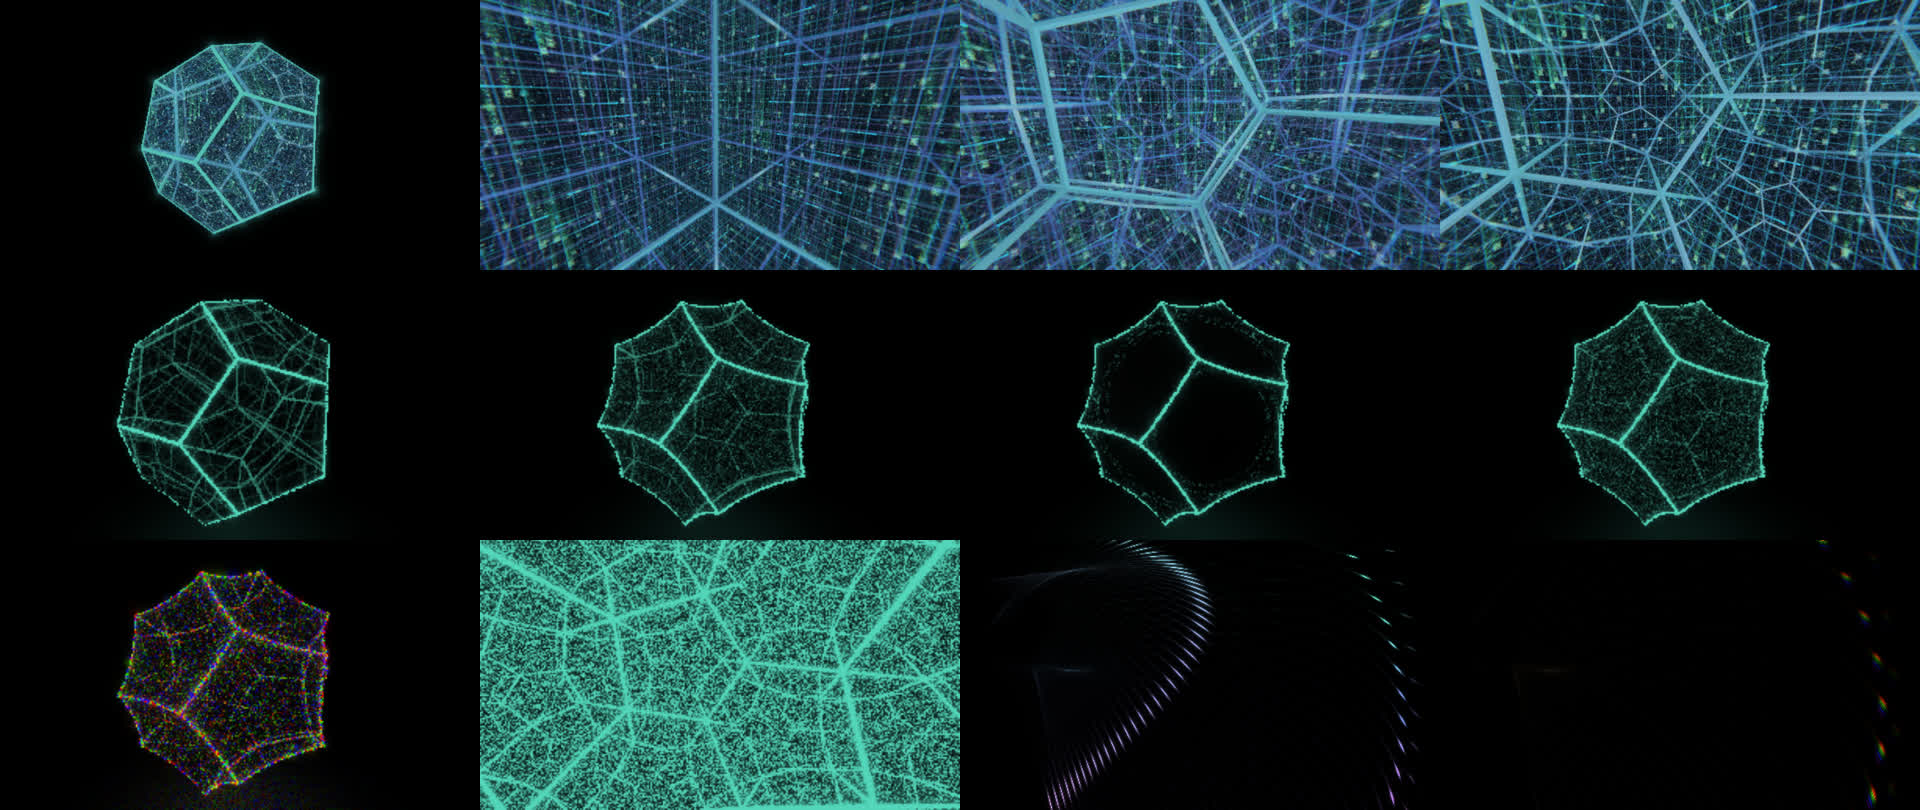
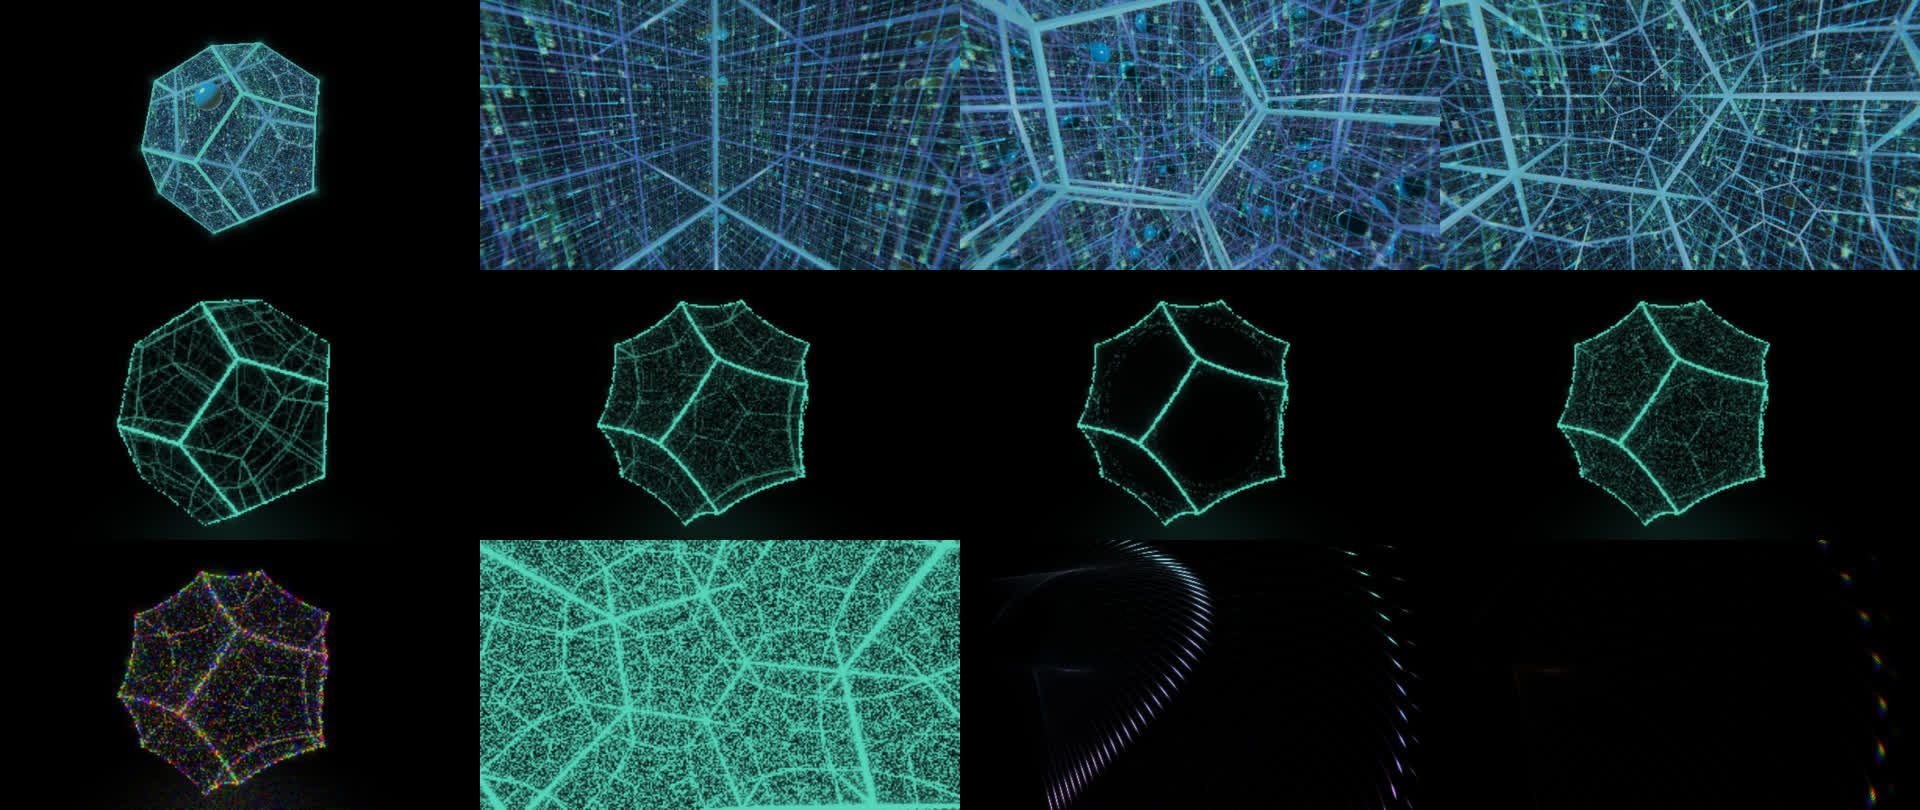
Add elastic 3D and hyperbolic chamber ball with traced reflections

diff --git a/demos/infinity/BouncingBall.hpp b/demos/infinity/BouncingBall.hpp
@@ -1,0 +1,140 @@
+#pragma once
+#include "Dodecahedron.hpp"
+#include "OpticalMath.hpp"
+#include <array>
+#include <cmath>
+#include <algorithm>
+namespace infinity_ball {
+using V = std::array<double, 4>;
+inline double dot(const V& a, const V& b) {
+  return a[0] * b[0] + a[1] * b[1] + a[2] * b[2] - a[3] * b[3];
+}
+struct Ball {
+  V p = {.12, -.08, .06, 0}, v = {.57, .43, .69, 0};
+  bool hyper = false, cube = false;
+  int impacts = 0;
+  double flash = 0;
+  static constexpr double radius = .14;
+  Ball(bool h = false, bool c = false) : hyper(h), cube(c) {
+    if (hyper) {
+      p[3] = std::sqrt(1 + p[0] * p[0] + p[1] * p[1] + p[2] * p[2]);
+      v[3] = (p[0] * v[0] + p[1] * v[1] + p[2] * v[2]) / p[3];
+    }
+    const double length = std::sqrt(dot(v, v));
+    for (auto& x : v) x /= length;
+  }
+  V normal(int face) const {
+    if (cube) {
+      V n = {0, 0, 0, 0};
+      n[face / 2] = (face % 2) ? -1 : 1;
+      return n;
+    }
+    const float* f = infinity_geometry::faces + 3 * face;
+    if (!hyper) {
+      V n = {f[0], f[1], f[2], 0};
+      const double length = std::sqrt(dot(n, n));
+      for (auto& x : n) x /= length;
+      return n;
+    }
+    auto n = infinity_math::hyperplane(f[0], f[1], f[2], infinity_geometry::kleinT);
+    // Normalize again in double precision for the integration invariants.
+    V result = {n[0], n[1], n[2], n[3]};
+    double scale = std::sqrt(dot(result, result));
+    for (auto& x : result) x /= scale;
+    return result;
+  }
+  void travel(double distance) {
+    if (!hyper) {
+      for (int k = 0; k < 3; ++k) p[k] += v[k] * distance;
+      return;
+    }
+    const double ch = std::cosh(distance), sh = std::sinh(distance);
+    V q = p;
+    for (int k = 0; k < 4; ++k) {
+      p[k] = ch * q[k] + sh * v[k];
+      v[k] = sh * q[k] + ch * v[k];
+    }
+  }
+  void step(double distance) {
+    flash *= std::exp(-distance * 16);
+    for (int event = 0; distance > 1e-10 && event < 12; ++event) {
+      double first = distance;
+      int hit = -1;
+      for (int f = 0; f < (cube ? 6 : 12); ++f) {
+        auto n = normal(f);
+        const double a = dot(p, n), b = dot(v, n);
+        if (!hyper) {
+          if (b > 1e-10) {
+            double t = (1 - radius - a) / b;
+            if (t >= -1e-9 && t <= first) {
+              first = std::max(0.0, t);
+              hit = f;
+            }
+          }
+        } else {
+          const double wall = -std::sinh(radius);
+          if (a * std::cosh(first) + b * std::sinh(first) > wall && b > 0) {
+            double lo = 0, hi = first;
+            for (int j = 0; j < 40; ++j) {
+              double mid = (lo + hi) * .5;
+              if (a * std::cosh(mid) + b * std::sinh(mid) > wall)
+                hi = mid;
+              else
+                lo = mid;
+            }
+            first = (lo + hi) * .5;
+            hit = f;
+          }
+        }
+      }
+      travel(first);
+      distance -= first;
+      if (hit < 0) break;
+      V n = normal(hit);
+      if (hyper) {
+        double a = dot(p, n);
+        for (int k = 0; k < 4; ++k) n[k] += a * p[k];
+        const double norm = std::sqrt(dot(n, n));
+        for (auto& x : n) x /= norm;
+      }
+      const double vn = dot(v, n);
+      for (int k = 0; k < 4; ++k) v[k] -= 2 * vn * n[k];
+      ++impacts;
+      flash = 1;
+    }
+    if (hyper) {
+      double norm = std::sqrt(-dot(p, p));
+      for (auto& x : p) x /= norm;
+      const double tangent = dot(p, v);
+      for (int k = 0; k < 4; ++k) v[k] += tangent * p[k];
+      norm = std::sqrt(dot(v, v));
+      for (auto& x : v) x /= norm;
+    }
+  }
+};
+struct World {
+  Ball cube{false, true}, flat{}, hyper{true, false};
+  double tick = 0;
+  void advance(double beat) {
+    if (!std::isfinite(beat) || beat < 0) return;
+    double target = std::floor(std::min(beat, 1e9) * 120);
+    if (target < tick || target - tick > 120000) {
+      *this = World();
+      tick = target;
+      return;
+    }
+    while (tick < target) {
+      cube.step(.45 / 120);
+      flat.step(.45 / 120);
+      hyper.step(.45 / 120);
+      ++tick;
+    }
+  }
+  Ball sample(const Ball& ball, double beat) const {
+    Ball result = ball;
+    const double sub = std::isfinite(beat) ? beat * 120 - std::floor(beat * 120) : 0;
+    result.step(std::clamp(sub, 0.0, 1.0) * .45 / 120);
+    return result;
+  }
+};
+} // namespace infinity_ball

diff --git a/demos/infinity/main.cpp b/demos/infinity/main.cpp
@@ -11,6 +11,8 @@
 #include "OpticalMath.hpp"
 #include "MatrixLife.hpp"
 #include "AntTraffic.hpp"
+#include "BouncingBall.hpp"
+#include "BallShader.hpp"
 #include "GpuTimer.hpp"
 #include <unordered_map>
 #include <algorithm>
@@ -123,6 +125,7 @@ class Infinity final : public de::Demo {
   float yawOffset_ = 0, pitchOffset_ = 0, grinCurvature_ = -1;
   GLuint antTexture_ = 0;
   infinity_ants::Traffic traffic_;
+  infinity_ball::World ballWorld_;
   infinity_ants::Traffic::Image antImage_;
   int instrumentState_ = -1;
   float pointerX_ = 0, pointerY_ = 0;
@@ -154,7 +157,7 @@ class Infinity final : public de::Demo {
   static void quad() { glDrawArrays(GL_TRIANGLES, 0, 3); }
   GLuint program(const char* vs, const char* fs) {
     const auto vertex = infinity_render::orderedRamps(vs);
-    const auto fragment = infinity_render::orderedRamps(infinity_matrix::expand(fs));
+    const auto fragment = infinity_render::orderedRamps(infinity_ball::shader(infinity_matrix::expand(fs)));
     return glutil::linkProgram(vertex.c_str(), fragment.c_str(), error_);
   }
   void view(GLuint p, const Camera& c, float distance, float fov, int w, int h) {
@@ -194,6 +197,13 @@ class Infinity final : public de::Demo {
     glTexSubImage2D(GL_TEXTURE_2D, 0, 0, 0, 64, 64, GL_RGBA, GL_FLOAT, antImage_.data());
     integer(p, "uAntField", 2);
     glActiveTexture(GL_TEXTURE0);
+    const auto flatBall = ballWorld_.sample(scene == 1 ? ballWorld_.cube : ballWorld_.flat, frame_.sync.beat);
+    const auto hyperBall = ballWorld_.sample(ballWorld_.hyper, frame_.sync.beat);
+    glUniform4f(loc(p, "uBallE"), float(flatBall.p[0]), float(flatBall.p[1]), float(flatBall.p[2]),
+                float(infinity_ball::Ball::radius));
+    glUniform4f(loc(p, "uBallH"), float(hyperBall.p[0]), float(hyperBall.p[1]), float(hyperBall.p[2]),
+                float(hyperBall.p[3]));
+    one(p, "uBallImpact", float(scene == 1 || scene == 2 ? flatBall.flash : hyperBall.flash));
     one(p, "uTime", float(frame_.time));
     one(p, "uFlow", float(cue_.flow));
     one(p, "uEnergy", cue_.energy);
@@ -340,7 +350,7 @@ public:
     de::Config c;
     c.title = "HOLD INFINITY / music-driven optical geometry";
     c.binaryName = "hold_infinity";
-    c.version = "2.0";
+    c.version = "2.1";
     c.customRendering = true;
     c.defaultTrack = 1;
     c.logoShow = false;
@@ -495,6 +505,7 @@ public:
   bool update(const de::FrameInfo& f, const de::Input& in, de::Frame& out) override {
     frame_ = f;
     traffic_.advance(f.sync.beat);
+    ballWorld_.advance(f.sync.beat);
     viewDirty_ = false;
     if (auto* window = glfwGetCurrentContext()) {
       double x = 0, y = 0;

diff --git a/demos/infinity/BallShader.hpp b/demos/infinity/BallShader.hpp
@@ -1,0 +1,51 @@
+#pragma once
+#include "Optimize.hpp"
+namespace infinity_ball {
+inline std::string shader(std::string source) {
+  if (source.find("vec3 traceHyper(") == std::string::npos) return source;
+  const auto pos = source.find("vec3 traceHyper(");
+  source.insert(pos, R"GLSL(
+uniform vec4 uBallE;
+uniform vec4 uBallH;
+uniform float uBallImpact;
+vec3 ballLight(vec3 n,vec3 view){
+  vec3 light=normalize(vec3(-0.4,0.7,0.5));
+  float diffuse=max(dot(n,light),0.0);
+  float rim=pow(1.0-clamp(abs(dot(n,view)),0.0,1.0),3.0);
+  float glint=pow(max(dot(reflect(-light,n),-view),0.0),48.0);
+  return vec3(0.04,0.7,1.0)*(0.14+diffuse*1.4)+vec3(0.5,0.9,1.0)*rim*.65
+    +vec3(1.0,0.7,0.25)*(glint*3.0+uBallImpact*.65);
+}
+float ballFlat(vec3 p,vec3 v){
+  vec3 d=p-uBallE.xyz;float b=dot(d,v),c=dot(d,d)-uBallE.w*uBallE.w;
+  float disc=b*b-c;if(disc<0.0)return 1e9;
+  float t=-b-sqrt(disc);return t>1e-4?t:(-b+sqrt(disc)>1e-4?-b+sqrt(disc):1e9);
+}
+float ballHyper(vec4 p,vec4 v){
+  float a=-mdot(p,uBallH),b=-mdot(v,uBallH),r=cosh(0.14);
+  if(a>r&&b>=0.0)return 1e9;
+  float closest=atanh(clamp(-b/max(a,1e-6),-0.999999,0.999999));
+  float minimum=sqrt(max(a*a-b*b,1.0));
+  if(minimum>r)return 1e9;
+  float delta=acosh(max(r/minimum,1.0));
+  float t=closest-delta;return t>1e-4?t:(closest+delta>1e-4?closest+delta:1e9);
+}
+)GLSL");
+  // Each ray segment tests the sphere before reaching its next mirror.
+  infinity_opt::replace(source, "    if (bi < 0) break;\n    float ch = cosh(best), sh = sinh(best);", R"GLSL(
+    float ballT=ballHyper(p,v);
+    if(ballT<best){
+      vec4 hp=cosh(ballT)*p+sinh(ballT)*v;
+      vec4 normalH=(cosh(0.14)*hp-uBallH)/sinh(0.14);
+      col+=att*ballLight(normalize(normalH.xyz),normalize(v.xyz));break;
+    }
+    if (bi < 0) break;
+    float ch = cosh(best), sh = sinh(best);)GLSL");
+  infinity_opt::replace(source, "    if (bi < 0) break;\n    p += v * best;", R"GLSL(
+    float ballT=ballFlat(p,v);
+    if(ballT<best){col+=att*ballLight(normalize(p+ballT*v-uBallE.xyz),v);break;}
+    if (bi < 0) break;
+    p += v * best;)GLSL");
+  return source;
+}
+} // namespace infinity_ball

diff --git a/tests/infinity_tests.cpp b/tests/infinity_tests.cpp
@@ -3,6 +3,7 @@
 #include "OpticalMath.hpp"
 #include "MatrixLife.hpp"
 #include "AntTraffic.hpp"
+#include "BouncingBall.hpp"
 #include "RenderCorrections.hpp"
 #include "Optimize.hpp"
 #include "Shaders.hpp"
@@ -15,6 +16,34 @@ void require(bool ok, const char* message) {
   if (!ok) throw std::runtime_error(message);
 }
 int main() {
+  infinity_ball::World balls;
+  for (int frame = 0; frame < 24000; ++frame) {
+    balls.cube.step(.45 / 120);
+    balls.flat.step(.45 / 120);
+    balls.hyper.step(.45 / 120);
+    for (const auto* ball : {&balls.cube, &balls.flat, &balls.hyper}) {
+      require(std::abs(infinity_ball::dot(ball->v, ball->v) - 1) < 1e-5, "ball loses elastic speed");
+      for (int face = 0; face < (ball->cube ? 6 : 12); ++face) {
+        const double d = infinity_ball::dot(ball->p, ball->normal(face));
+        require(d <= (ball->hyper ? -std::sinh(ball->radius) : 1 - ball->radius) + 1e-6,
+                "ball escaped chamber or penetrated wall");
+      }
+      if (ball->hyper) {
+        require(std::abs(infinity_ball::dot(ball->p, ball->p) + 1) < 1e-6, "ball left hyperboloid");
+        require(std::abs(infinity_ball::dot(ball->p, ball->v)) < 1e-6, "ball velocity left tangent space");
+      }
+    }
+  }
+  require(balls.cube.impacts > 10 && balls.flat.impacts > 10 && balls.hyper.impacts > 10, "ball never bounces");
+  infinity_ball::World fastBall, slowBall;
+  fastBall.advance(20);
+  for (int n = 0; n <= 200; ++n) slowBall.advance(double(n) * .1);
+  for (int k = 0; k < 4; ++k)
+    require(std::abs(fastBall.hyper.p[k] - slowBall.hyper.p[k]) < 1e-8, "ball motion depends on frame rate");
+  infinity_ball::World seekBall;
+  seekBall.advance(5000);
+  seekBall.advance(5000.5);
+  require(seekBall.tick == 600060, "ball cannot recover after a large clock seek");
   infinity_ants::Traffic colony, stepped;
   for (int tick = 0; tick < 500; ++tick) {
     colony.advance(double(tick) * .5);

diff --git a/demos/infinity/README.md b/demos/infinity/README.md
@@ -153,3 +153,12 @@ Matrix walkers now come from a persistent sixteen-agent colony on an 8×8 wrappi
 The simulation runs on the CPU at half-beat boundaries; a small 64×64 float texture carries smoothly interpolated bodies and contact energy to the GPU. This replaces the independent lane formulas with actual shared traffic state. The texture is repeated in intrinsic surface coordinates with room-dependent offsets, so the colony pattern bends and reflects with the Matrix grid. Rooms share the colony pattern; they are not separate simulated worlds. Fine detail still fades at distance.
 
 Tests cover 500 decision steps, unique positions/target reservations, no head-on swaps, valid grid movement, deterministic catch-up under different frame cadences, path changes and finite raster output. Invalid clocks are ignored. Backward seeks or jumps over 4,096 decisions reset the colony instead of performing unbounded catch-up.
+
+
+## Bouncing chamber ball (2.1)
+
+Scenes 0–3 now contain a lit sphere, including its mirror images. The cube and flat dodecahedron use three-dimensional continuous sphere/plane collision times with finite-radius wall clearance. The hyperbolic chamber and exterior sculpture use a geodesic sphere: its center follows the hyperboloid, contacts a mirror at geodesic distance 0.14, and reflects in the local tangent-space wall normal. These are three spatial dimensions in Euclidean or hyperbolic geometry; the ball is not a four-dimensional hypersphere.
+
+Physics advances in fixed 1/120-beat steps, preserving elastic speed, with collision-time subdivision within a step. Rendering predicts the fractional remainder for smooth motion. The GPU tests sphere intersections on each ray segment before its next wall, so depth, occlusion and repeated mirror images follow the scene tracing rather than a screen overlay. Impact energy adds a brief warm glint through the existing HDR grade. Glass/instrument and final light scenes remain separate from the chamber ball.
+
+Long-run tests cover 24,000 steps for all three chamber models, checking wall clearance, unit speed, hyperboloid position norm, tangent velocity and repeated impacts. Different update cadences produce the same state. Large or backward clock seeks reset at the new clock position with bounded work, and playback can resume normally.

diff --git a/CHANGELOG.md b/CHANGELOG.md
@@ -1,3 +1,10 @@
+# Hold Infinity 2.1 bouncing chamber ball — 2026-10-22
+
+- Add a lit sphere and reflected images inside the cube, dodecahedron and hyperbolic chambers.
+- Solve finite-radius elastic collisions in Euclidean space and geodesic sphere/mirror contact in hyperbolic space.
+- Test ball hits within each traced ray segment for correct depth and reflection placement; add brief HDR impact glints.
+- Validate 24,000 steps of containment, speed, hyperboloid/tangent invariants, frame-cadence independence and large-seek recovery.
+
 # Hold Infinity 2.0 interacting ant traffic — 2026-10-22
 
 - Replace independent lane packets with a persistent sixteen-agent colony and beat-timed junction decisions.
